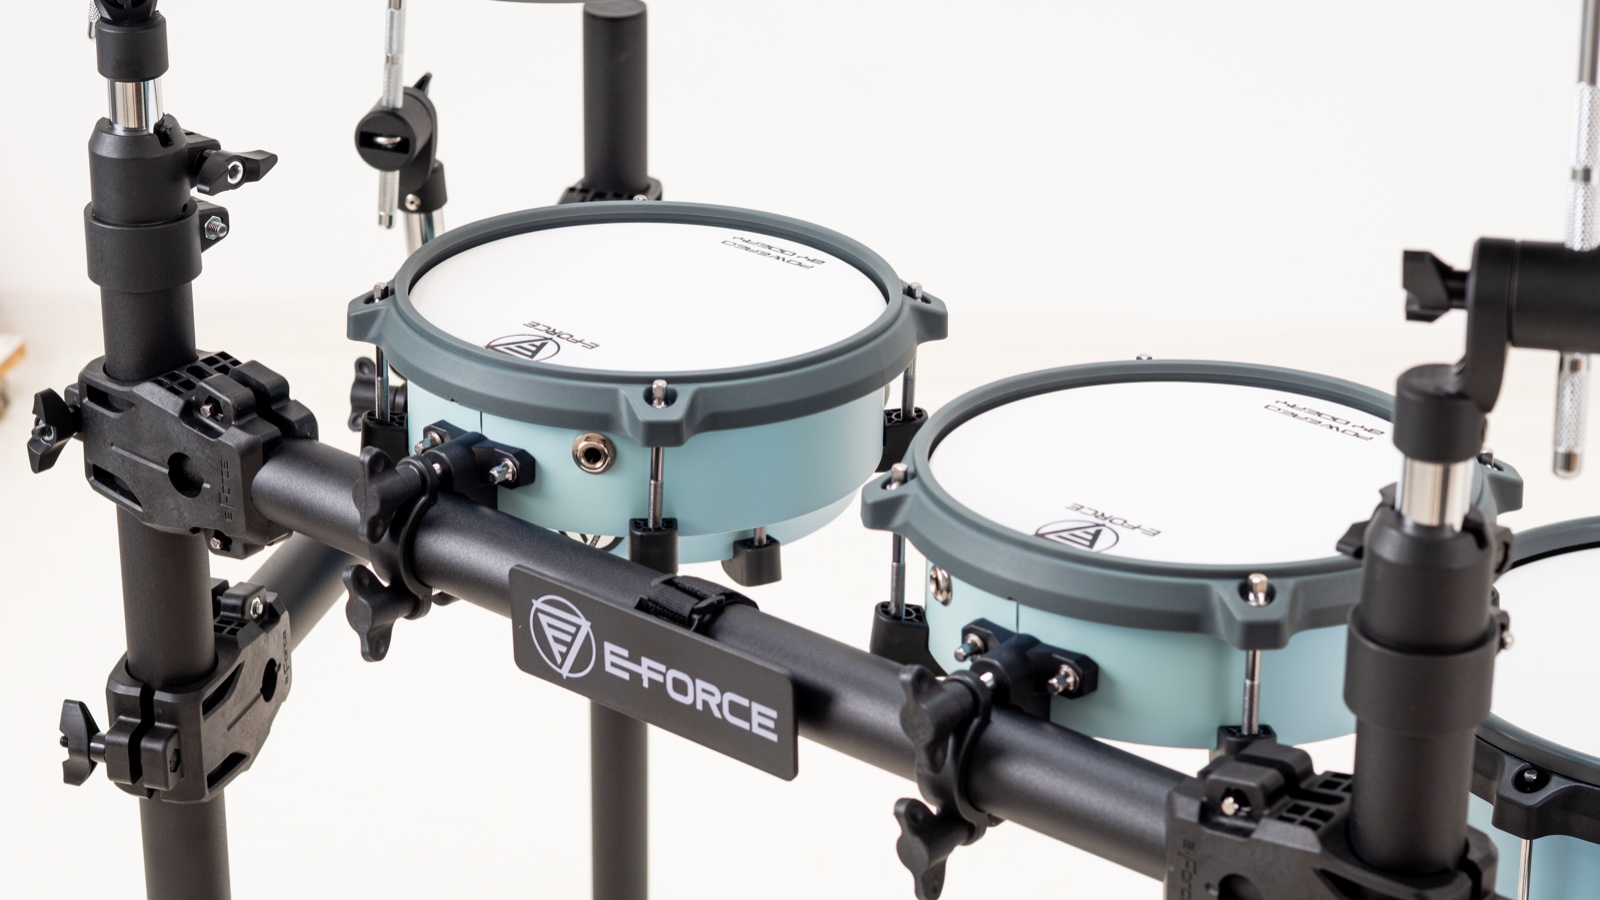
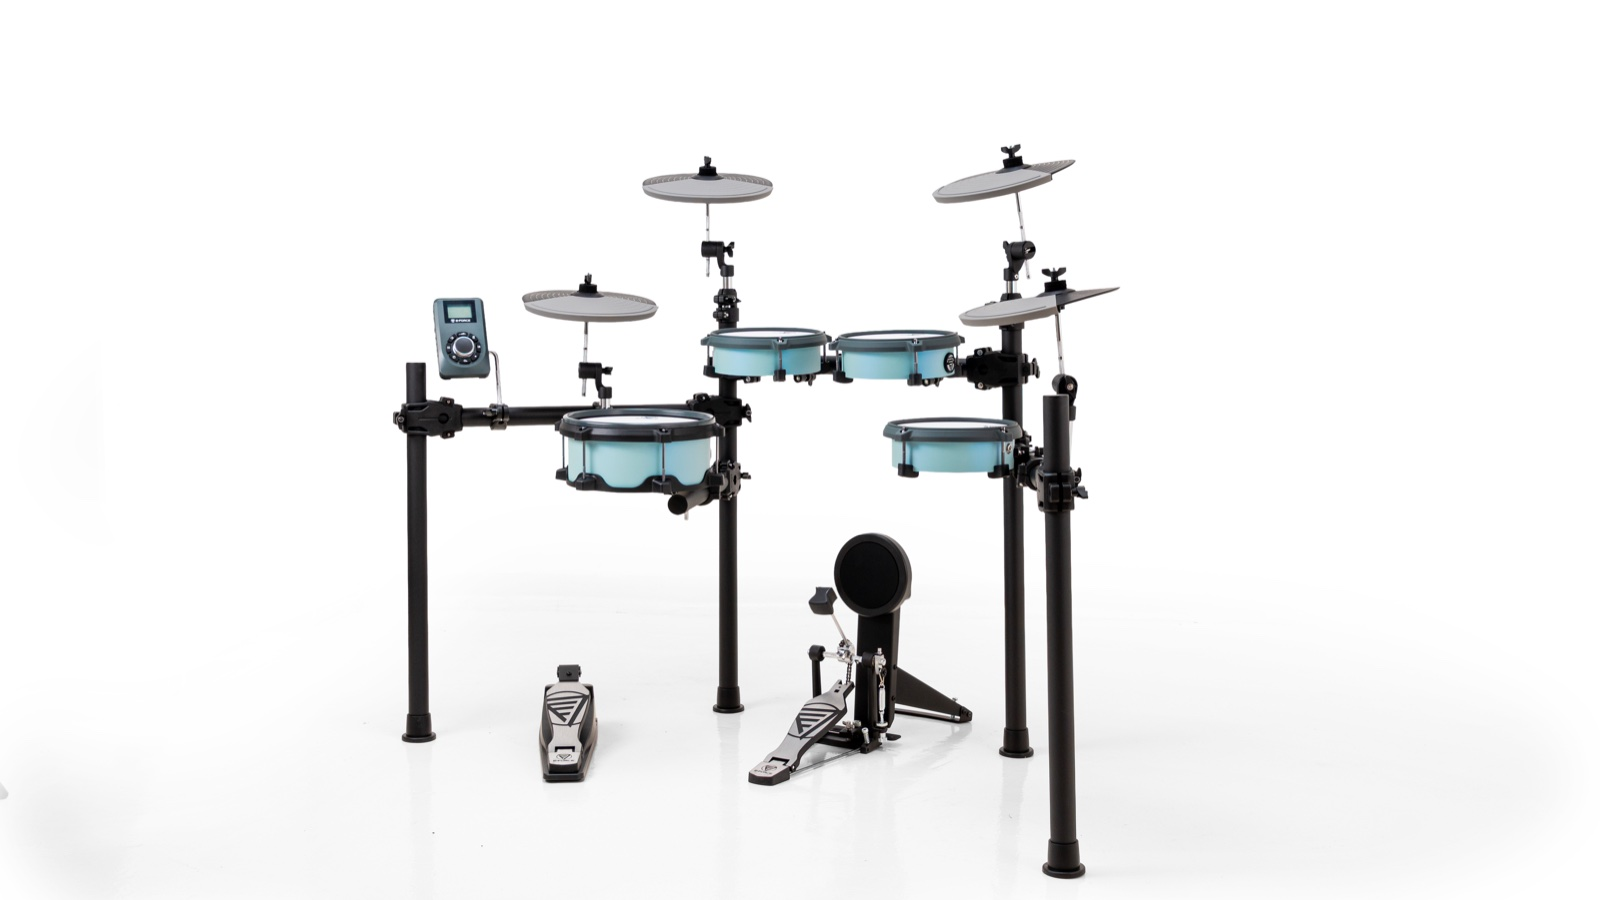
feat: add new EF2 V3 treated photos — hero, aerial, front, 5 detail shots

diff --git a/eforce-site/src/data/products.ts b/eforce-site/src/data/products.ts
@@ -192,6 +192,12 @@ export const products: Product[] = [
     galleryImages: [
       "/assets/images/kits/ef2v3/ef2v3-hero.jpg",
       "/assets/images/kits/ef2v3/ef2v3-front.jpg",
+      "/assets/images/kits/ef2v3/ef2v3-aerial.jpg",
+      "/assets/images/kits/ef2v3/ef2v3-detail-1.jpg",
+      "/assets/images/kits/ef2v3/ef2v3-detail-2.jpg",
+      "/assets/images/kits/ef2v3/ef2v3-detail-3.jpg",
+      "/assets/images/kits/ef2v3/ef2v3-detail-4.jpg",
+      "/assets/images/kits/ef2v3/ef2v3-detail-5.jpg",
     ],
     techTabs: [],
   },